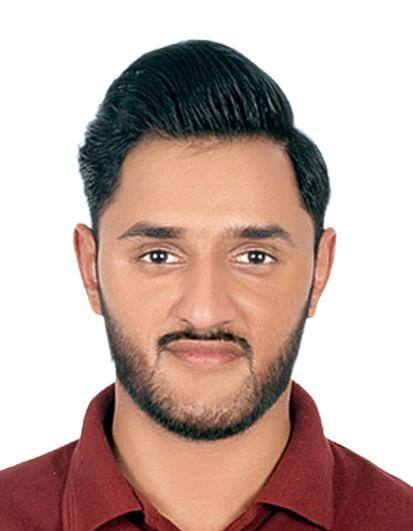
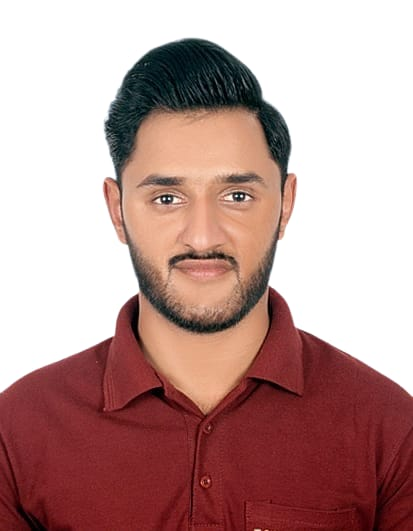
reframed images

diff --git a/employes.html b/employes.html
@@ -178,8 +178,8 @@
             <p class="team-position">Sale/Rent</p>
           </div>
 
-          <div class="team-details">
-            <img src="images/bankar jevan.jpg" alt="" class="team-img" />
+          <div class="team-details2">
+            <img src="images/bankar jevan.jpg" alt="" class="banker" />
             <h3 class="team-name">Bankar Jeevan</h3>
             <p class="team-position">Specialist</p>
             <p class="team-position">Sale/Rent</p>
@@ -346,6 +346,12 @@
             <img src="images/a7.jpg" alt="" class="team-img" />
             <h3 class="team-name">Zain Samejo</h3>
             <p class="team-position">Office Boy</p>
+          </div>
+
+          <div class="team-details">
+            <img src="images/dummy.png" alt="" class="team-img" />
+            <h3 class="team-name">Mohsen Sheikh</h3>
+            <!-- <p class="team-position">Office Boy</p> -->
           </div>
         </div>
       </div>

diff --git a/employes.css b/employes.css
@@ -47,6 +47,14 @@
   text-align: center;
 }
 
+.team-details2 img {
+  width: 10rem;
+  height: 10rem;
+  border-radius: 50%;
+  object-fit: cover;
+  object-position: center;
+}
+
 @media (max-width: 450px) {
   .ceo-img {
     width: 20rem;
@@ -59,7 +67,7 @@
 
   .md-img {
     width: 17rem;
-    height: 20rem;
+    height: 30rem;
     border-radius: 50%;
     margin-bottom: -5rem;
     object-position: top;
